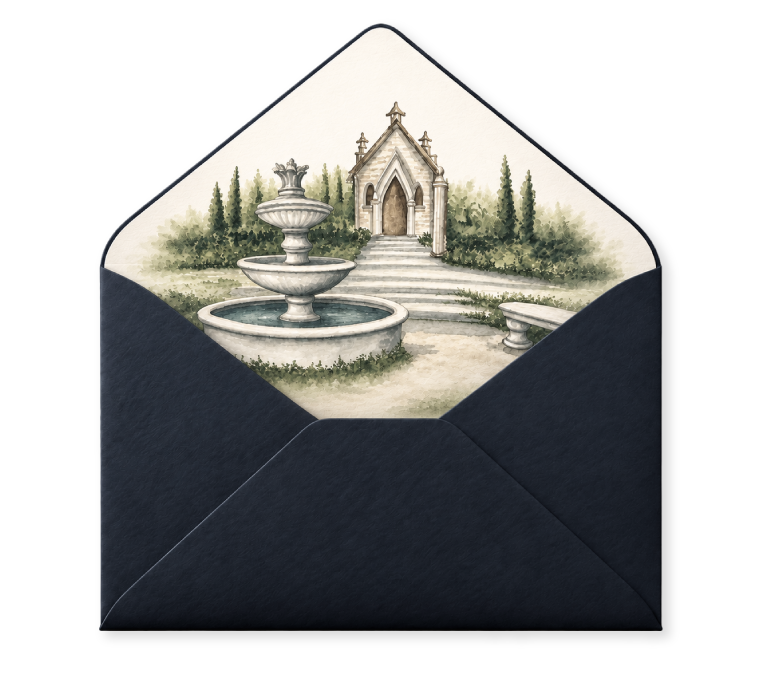
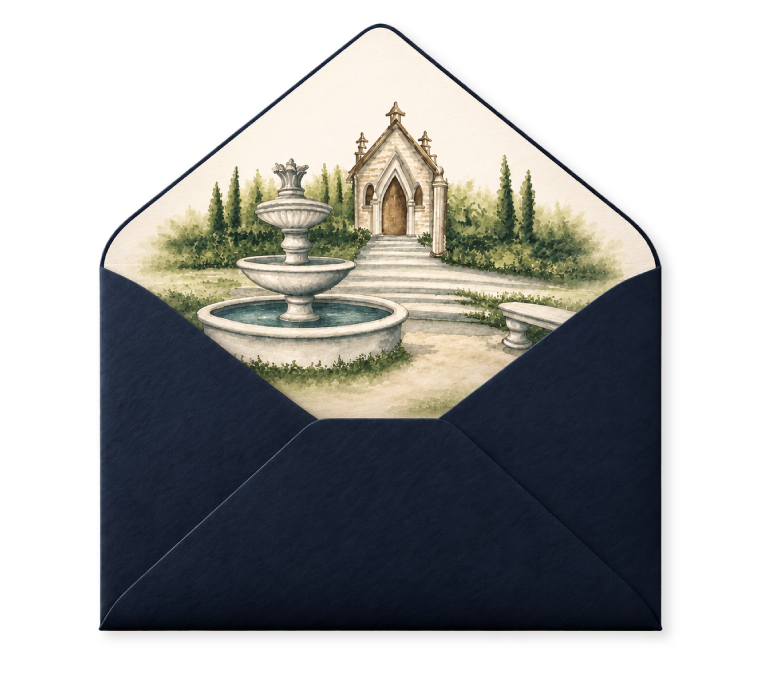
testando lugar do botao

diff --git a/styles.css b/styles.css
@@ -388,7 +388,7 @@ button {
   }
 
   .asset-1 {
-    width: 70vw;
+    width: 50vw;
   }
 
   .asset-4,
@@ -419,7 +419,7 @@ button {
   }
 
   .detail-inner {
-        gap: 130px;
+        gap: 80px;
         max-height: 995svh;
         width: 92vw;
   }
